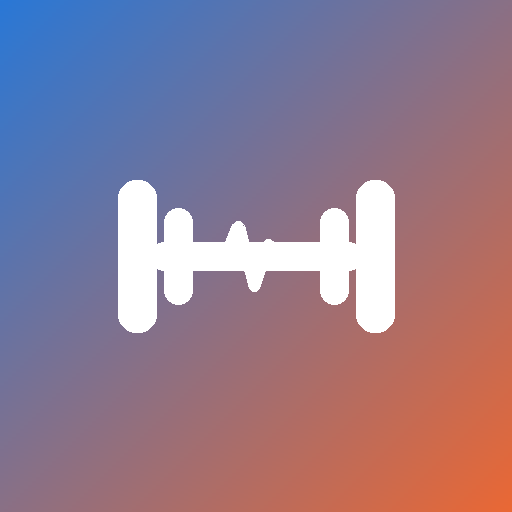
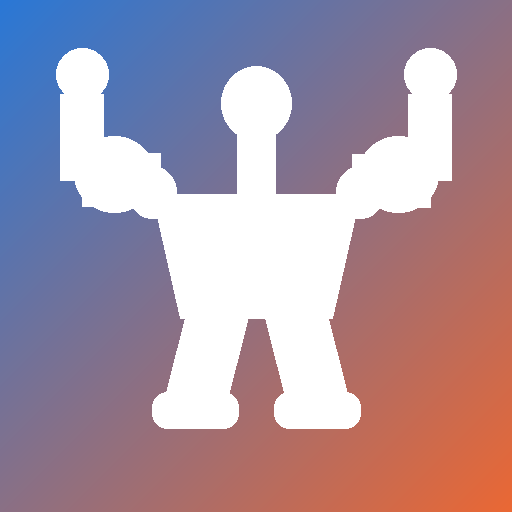
应用图标：改为健身教练剪影（前展双肱二头肌）
- 蓝橙渐变底 + 白色健美姿势剪影：双臂上举外展、肱二头肌隆起、
  前臂垂直握拳，宽肩收腰、双腿分开站立
- 几何刻意简化（大块面、无细碎结构），保证桌面小尺寸可读
- 生成脚本入库 tools/gen_icon.py，可复现调参

Changed region(s): [[0.0938, 0.0938, 0.9062, 0.8438]]

diff --git a/tools/gen_icon.py b/tools/gen_icon.py
@@ -1,0 +1,69 @@
+#!/usr/bin/env python3
+"""生成「练伴 CoachPal」应用图标：蓝橙渐变底 + 白色教练剪影。
+
+造型：前展双肱二头肌（Front Double Biceps）——上臂抬高外展、二头肌隆起、
+前臂垂直握拳。几何刻意简化：桌面图标尺寸小，靠大块面而非细节保证可读。
+
+用法：python3 tools/gen_icon.py
+输出：AppScope 与 entry 两处 app_icon.png（512x512）。
+"""
+from PIL import Image, ImageDraw
+
+S = 512
+C1 = (42, 120, 214)   # primary 蓝
+C2 = (235, 104, 52)   # accent 橙
+W = (255, 255, 255, 255)
+
+# ---------------------------------------------------------------- 渐变底
+img = Image.new('RGBA', (S, S))
+d = ImageDraw.Draw(img)
+for y in range(S):
+    for x in range(S):
+        t = (x + y) / (2 * S)
+        d.point((x, y), fill=(
+            int(C1[0] + (C2[0] - C1[0]) * t),
+            int(C1[1] + (C2[1] - C1[1]) * t),
+            int(C1[2] + (C2[2] - C1[2]) * t),
+        ))
+
+ov = Image.new('RGBA', (S, S), (0, 0, 0, 0))
+o = ImageDraw.Draw(ov)
+MX = 256
+
+# ---------------------------------------------------------------- 头 / 脖
+o.ellipse([MX - 35, 66, MX + 35, 140], fill=W)
+o.rectangle([MX - 19, 130, MX + 19, 200], fill=W)
+
+# ---------------------------------------------------------------- 躯干：宽肩收腰
+o.polygon([(MX - 104, 194), (MX + 104, 194),
+           (MX + 76, 318), (MX - 76, 318)], fill=W)
+# 肩头圆角（与上臂融合，形成腋窝）
+o.ellipse([MX - 128, 166, MX - 80, 218], fill=W)
+o.ellipse([MX + 80, 166, MX + 128, 218], fill=W)
+
+# ---------------------------------------------------------------- 双臂
+ARM_Y = 180          # 上臂中心线（高于躯干顶 196，腋窝自然形成）
+for side in (-1, 1):
+    sx = MX + side * 96      # 肩
+    ex = MX + side * 174     # 肘
+    # 上臂：水平外展，粗
+    o.line([(sx, ARM_Y), (ex, ARM_Y)], fill=W, width=54)
+    # 肱二头肌峰：肘内侧上方隆起
+    bx = MX + side * 142
+    o.ellipse([bx - 40, 136, bx + 40, 212], fill=W)
+    # 前臂：垂直向上
+    o.line([(ex, ARM_Y), (ex, 94)], fill=W, width=44)
+    # 拳
+    o.ellipse([ex - 26, 48, ex + 26, 100], fill=W)
+
+# ---------------------------------------------------------------- 腿
+o.line([(MX - 38, 310), (MX - 62, 404)], fill=W, width=62)
+o.line([(MX + 38, 310), (MX + 62, 404)], fill=W, width=62)
+# 脚
+o.rounded_rectangle([MX - 104, 392, MX - 18, 428], radius=15, fill=W)
+o.rounded_rectangle([MX + 18, 392, MX + 104, 428], radius=15, fill=W)
+
+img = Image.alpha_composite(img, ov).convert('RGB')
+img.save('AppScope/resources/base/media/app_icon.png')
+img.save('entry/src/main/resources/base/media/app_icon.png')
+print('icon ok ->', S, 'x', S)
